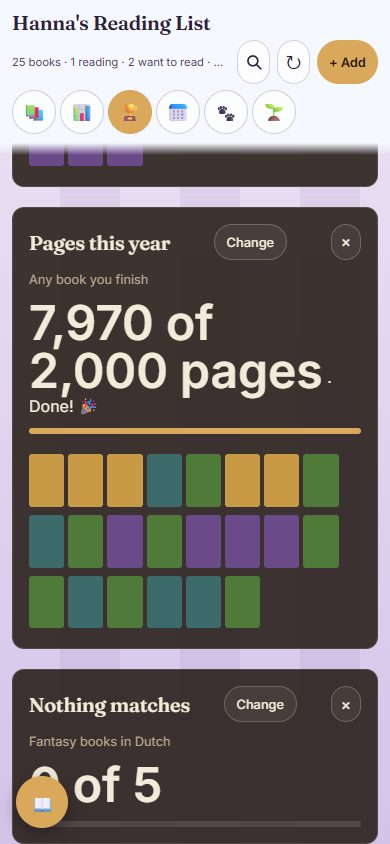
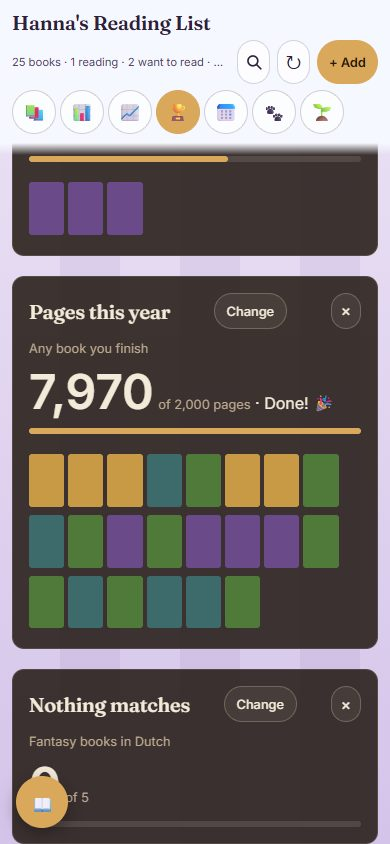
T-0090 … T-0093: merge main, split the own-challenge count line, record the result

diff --git a/src/components/OwnChallenges.test.tsx b/src/components/OwnChallenges.test.tsx
@@ -191,20 +191,23 @@ describe('the challenge card', () => {
     expect(screen.getByText('Fantasy books you rated 4+')).toBeTruthy()
   })
 
-  it('counts in its unit', () => {
+  const countLine = () => document.querySelector('.own-challenge-count')!.parentElement!.textContent!.replace(/\s+/g, ' ').trim()
+
+  it('counts in its unit, as a big number beside a quiet rest', () => {
     render(card({ rule: 'any', unit: 'pages', target: 2000 }))
-    expect(screen.getByText('1,200 of 2,000 pages')).toBeTruthy()
+    expect(document.querySelector('.own-challenge-count')!.textContent).toBe('1,200')
+    expect(countLine()).toBe('1,200 of 2,000 pages')
     cleanup()
     render(card({ rule: 'any', unit: 'hours', target: 20 }))
-    expect(screen.getByText('10 of 20 hours')).toBeTruthy()
+    expect(countLine()).toBe('10 of 20 hours')
     cleanup()
     render(card({ rule: 'genre', value: 'Fantasy', target: 5 }))
-    expect(screen.getByText('2 of 5')).toBeTruthy()
+    expect(countLine()).toBe('2 of 5')
   })
 
   it('shows an AND that nothing matches as empty, with no extra sentence', () => {
     render(card({ rule: 'genre', value: 'Fantasy', and: 'language', andValue: 'nl', target: 5 }))
-    expect(screen.getByText('0 of 5')).toBeTruthy()
+    expect(countLine()).toBe('0 of 5')
     expect(screen.getByRole('progressbar').getAttribute('aria-valuenow')).toBe('0')
     expect(screen.queryByRole('list')).toBeNull()
   })

diff --git a/src/lib/ownChallenges.ts b/src/lib/ownChallenges.ts
@@ -353,9 +353,19 @@ export function ruleText(c: OwnChallenge, books: Book[]): string {
   return `${onePhrase(a)} · and ${lowerFirst(onePhrase(b))}`
 }
 
+const asNumber = (x: number) => x.toLocaleString('en')
+
+/**
+ * The count line in two halves, so the card can draw the big number and the
+ * rest quietly beside it: `3` + `of 5`, `1,250` + `of 2,000 pages`.
+ */
+export function doneParts(c: OwnChallenge, done: number): { done: string; rest: string } {
+  const unit = unitOf(c)
+  return { done: asNumber(done), rest: `of ${asNumber(c.target)}${unit === 'books' ? '' : ` ${unit}`}` }
+}
+
 /** "3 of 5", "1,250 of 2,000 pages", "9 of 20 hours". */
 export function doneText(c: OwnChallenge, done: number): string {
-  const n = (x: number) => x.toLocaleString('en')
-  const unit = unitOf(c)
-  return `${n(done)} of ${n(c.target)}${unit === 'books' ? '' : ` ${unit}`}`
+  const parts = doneParts(c, done)
+  return `${parts.done} ${parts.rest}`
 }

diff --git a/src/components/OwnChallenges.tsx b/src/components/OwnChallenges.tsx
@@ -10,7 +10,7 @@ import {
   challengeBooks,
   challengeDone,
   cleanChallenges,
-  doneText,
+  doneParts,
   maxTarget,
   needsValue,
   newChallengeId,
@@ -365,7 +365,7 @@ export function OwnChallengeCard({
       </div>
       <p className="muted small-text">{ruleText(c, books)}</p>
       <p>
-        <span className="own-challenge-count">{doneText(c, done)}</span>
+        <span className="own-challenge-count">{doneParts(c, done).done}</span> <span className="muted">{doneParts(c, done).rest}</span>
         {done >= c.target && <span> · Done! 🎉</span>}
       </p>
       <div className="progress-bar" role="progressbar" aria-valuemin={0} aria-valuemax={c.target} aria-valuenow={Math.min(done, c.target)}>

diff --git a/docs/tasks/T-0092-more-rules-for-her-own-challenges.md b/docs/tasks/T-0092-more-rules-for-her-own-challenges.md
@@ -8,7 +8,7 @@ depends_on: [T-0090]
 decisions: [D-0002, D-0008, D-0014, D-0020, D-0025, D-0042, D-0064, D-0066]
 raised_on: 2026-11-23
 done_on: 2026-11-23
-result: []
+result: ["https://github.com/SanderGeraedts/Hanna-s-Reading-List/pull/267"]
 ---
 
 # Goal
@@ -365,6 +365,36 @@ $ git diff --stat origin/main...HEAD -- src/server/shelf.ts src/lib/shelfMerge.t
 | **Save** | disabled until the name, the number and **every** chosen rule's value are there |
 | the card's rule line | `Fantasy books by Sarah J. Maas`, `Books from the 1990s`, `Books you rated 4+`, `Fantasy books you rated 4+`, and `Books on your shelf before 2026 · and fantasy books` when the halves cannot share one "books" |
 | the count line | `3 of 5`, `1,250 of 2,000 pages`, `9 of 20 hours` |
+
+## After main landed the Stats page
+
+`main` gained the Stats page and the year wrap-up (#266) while this was being built, so it
+was merged in here and everything was run again on the merge:
+
+```
+$ pnpm exec tsc --noEmit
+(no output: clean)
+
+$ pnpm test
+ Test Files  190 passed | 2 skipped (192)
+      Tests  2378 passed | 22 skipped (2400)
+
+$ pnpm run build
+✓ built in 828ms
+
+$ pnpm exec harness check
+✓ tasks: 67 tasks, index in step
+✓ decisions: 59 records, index complete, 3 overrules valid
+✓ engineers: 2 listed
+✓ generated files: current
+```
+
+The conflicts were `docs/backlog.md` (both items taken off the queue), `docs/decisions/index.md`,
+`docs/lessons.md`, `docs/tasks/index.md` (regenerated) and `src/styles.css`. The stylesheet's
+two blocks both ended inside an unclosed `@media`, which is the trap T-0080's own lesson
+records: the resolved file was counted brace by brace (`depth at end: 0`, lowest depth 0) and
+the Challenges page was looked at again in the browser at 390 px and 1280 px. **The page tab
+row was not touched** — Stats is their tab and it is there.
 
 ## Verdict
 

diff --git a/docs/tasks/T-0093-swap-a-bingo-square.md b/docs/tasks/T-0093-swap-a-bingo-square.md
@@ -8,7 +8,7 @@ depends_on: [T-0090]
 decisions: [D-0013, D-0014, D-0020, D-0025, D-0034, D-0052, D-0067]
 raised_on: 2026-11-23
 done_on: 2026-11-23
-result: []
+result: ["https://github.com/SanderGeraedts/Hanna-s-Reading-List/pull/267"]
 ---
 
 # Goal
@@ -351,6 +351,36 @@ object, and `challenges.break.test.ts` feeds it a log of rubbish.
 | **swapping the same slot twice** | two writes, one event kept (a `place` event is a setting: the newest per key wins, D-0034 §1), and the newest square is the one shown — nothing is removed by hand |
 | with no account | the swap works and stays in this browser's log |
 | a fresh render from the stored log | the swap is still there |
+
+## After main landed the Stats page
+
+`main` gained the Stats page and the year wrap-up (#266) while this was being built, so it
+was merged in here and everything was run again on the merge:
+
+```
+$ pnpm exec tsc --noEmit
+(no output: clean)
+
+$ pnpm test
+ Test Files  190 passed | 2 skipped (192)
+      Tests  2378 passed | 22 skipped (2400)
+
+$ pnpm run build
+✓ built in 828ms
+
+$ pnpm exec harness check
+✓ tasks: 67 tasks, index in step
+✓ decisions: 59 records, index complete, 3 overrules valid
+✓ engineers: 2 listed
+✓ generated files: current
+```
+
+The conflicts were `docs/backlog.md` (both items taken off the queue), `docs/decisions/index.md`,
+`docs/lessons.md`, `docs/tasks/index.md` (regenerated) and `src/styles.css`. The stylesheet's
+two blocks both ended inside an unclosed `@media`, which is the trap T-0080's own lesson
+records: the resolved file was counted brace by brace (`depth at end: 0`, lowest depth 0) and
+the Challenges page was looked at again in the browser at 390 px and 1280 px. **The page tab
+row was not touched** — Stats is their tab and it is there.
 
 ## Verdict
 

diff --git a/docs/tasks/T-0091-four-new-ready-made-challenges.md b/docs/tasks/T-0091-four-new-ready-made-challenges.md
@@ -8,7 +8,7 @@ depends_on: [T-0090]
 decisions: [D-0008, D-0013, D-0014, D-0017, D-0018, D-0020, D-0026, D-0037, D-0042, D-0064, D-0065]
 raised_on: 2026-11-23
 done_on: 2026-11-23
-result: []
+result: ["https://github.com/SanderGeraedts/Hanna-s-Reading-List/pull/267"]
 ---
 
 # Goal
@@ -432,6 +432,36 @@ each time, no retries.
 |---|---|
 | a layout saved before the four blocks existed | her own order is kept and each new block lands in its default place; nothing is lost (`twoColumns.test.ts`) |
 | all eight ready-made challenges plus three of her own | one column at 390, two at 1280 (`challenges-390-all.jpg`, `challenges-1280-all.jpg`) |
+
+## After main landed the Stats page
+
+`main` gained the Stats page and the year wrap-up (#266) while this was being built, so it
+was merged in here and everything was run again on the merge:
+
+```
+$ pnpm exec tsc --noEmit
+(no output: clean)
+
+$ pnpm test
+ Test Files  190 passed | 2 skipped (192)
+      Tests  2378 passed | 22 skipped (2400)
+
+$ pnpm run build
+✓ built in 828ms
+
+$ pnpm exec harness check
+✓ tasks: 67 tasks, index in step
+✓ decisions: 59 records, index complete, 3 overrules valid
+✓ engineers: 2 listed
+✓ generated files: current
+```
+
+The conflicts were `docs/backlog.md` (both items taken off the queue), `docs/decisions/index.md`,
+`docs/lessons.md`, `docs/tasks/index.md` (regenerated) and `src/styles.css`. The stylesheet's
+two blocks both ended inside an unclosed `@media`, which is the trap T-0080's own lesson
+records: the resolved file was counted brace by brace (`depth at end: 0`, lowest depth 0) and
+the Challenges page was looked at again in the browser at 390 px and 1280 px. **The page tab
+row was not touched** — Stats is their tab and it is there.
 
 ## Verdict
 

diff --git a/docs/tasks/T-0090-a-ring-per-challenge-confetti-and-a-challenge-medal.md b/docs/tasks/T-0090-a-ring-per-challenge-confetti-and-a-challenge-medal.md
@@ -8,7 +8,7 @@ depends_on: []
 decisions: [D-0013, D-0014, D-0017, D-0020, D-0038, D-0064]
 raised_on: 2026-11-23
 done_on: 2026-11-23
-result: []
+result: ["https://github.com/SanderGeraedts/Hanna-s-Reading-List/pull/267"]
 ---
 
 # Goal
@@ -351,6 +351,36 @@ visit quiet). A line went into `docs/lessons.md`.
 | `confetti()` with no layer mounted | nothing, no throw |
 | the badge grid | 78 medals (was 75), the three new ones in their family's tiers, grid navigation still lands on the last medal |
 | `badges(books)` with **no** challenges option | the family is there, unearned, no crash |
+
+## After main landed the Stats page
+
+`main` gained the Stats page and the year wrap-up (#266) while this was being built, so it
+was merged in here and everything was run again on the merge:
+
+```
+$ pnpm exec tsc --noEmit
+(no output: clean)
+
+$ pnpm test
+ Test Files  190 passed | 2 skipped (192)
+      Tests  2378 passed | 22 skipped (2400)
+
+$ pnpm run build
+✓ built in 828ms
+
+$ pnpm exec harness check
+✓ tasks: 67 tasks, index in step
+✓ decisions: 59 records, index complete, 3 overrules valid
+✓ engineers: 2 listed
+✓ generated files: current
+```
+
+The conflicts were `docs/backlog.md` (both items taken off the queue), `docs/decisions/index.md`,
+`docs/lessons.md`, `docs/tasks/index.md` (regenerated) and `src/styles.css`. The stylesheet's
+two blocks both ended inside an unclosed `@media`, which is the trap T-0080's own lesson
+records: the resolved file was counted brace by brace (`depth at end: 0`, lowest depth 0) and
+the Challenges page was looked at again in the browser at 390 px and 1280 px. **The page tab
+row was not touched** — Stats is their tab and it is there.
 
 ## Verdict
 
